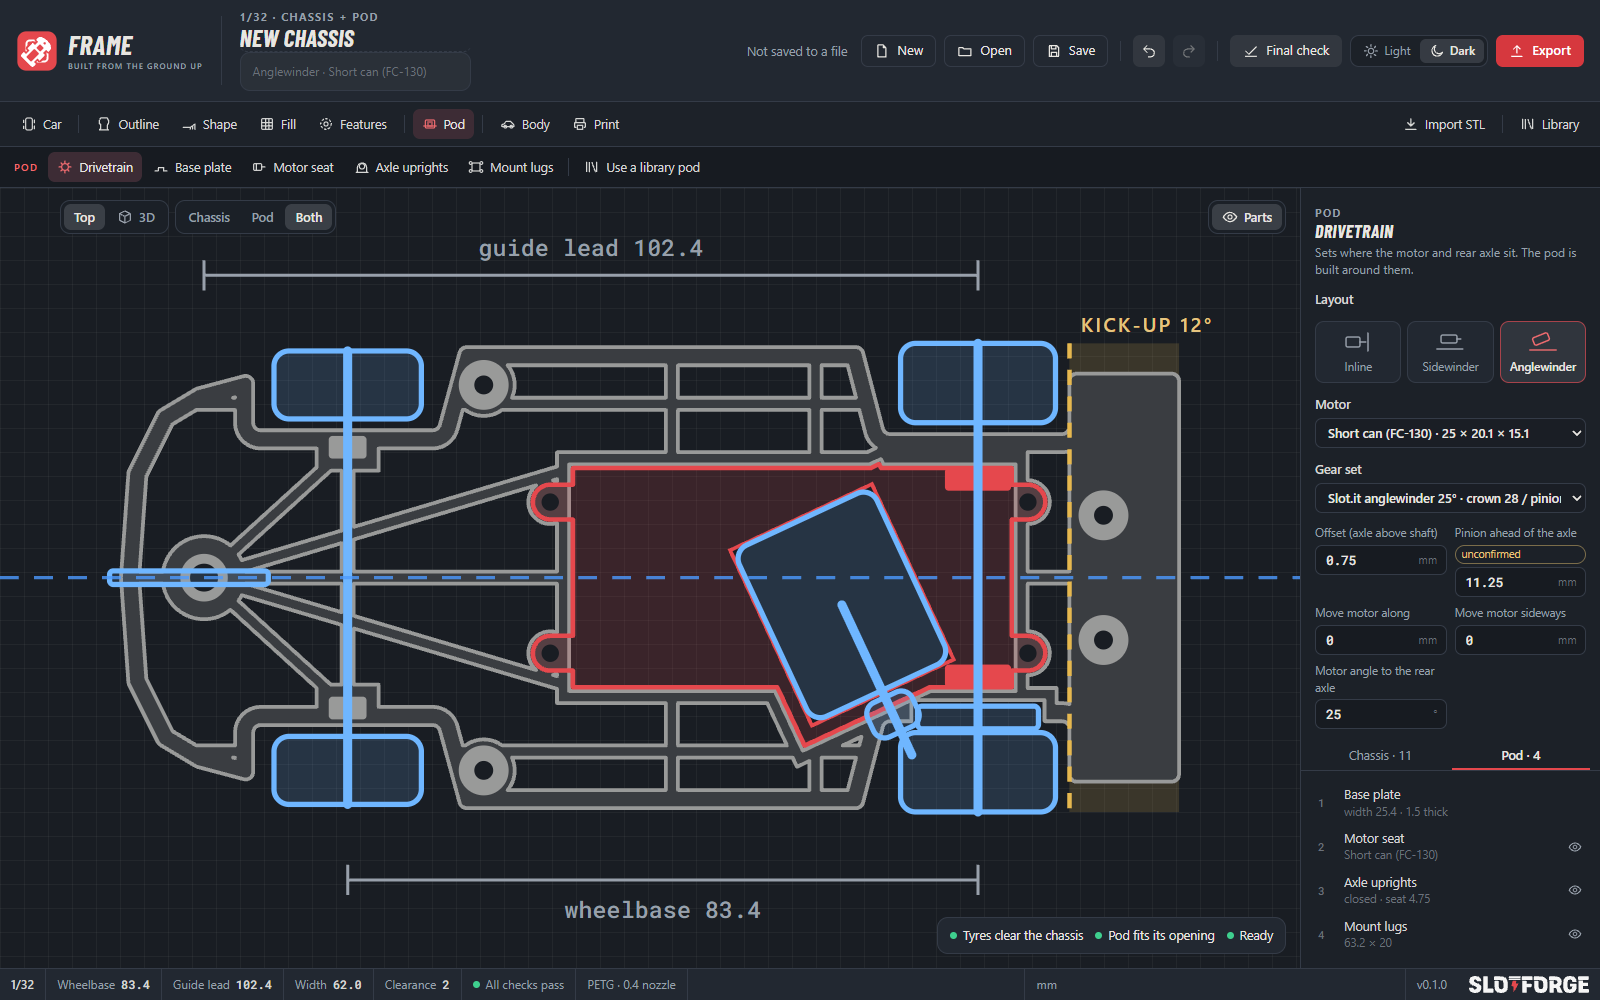
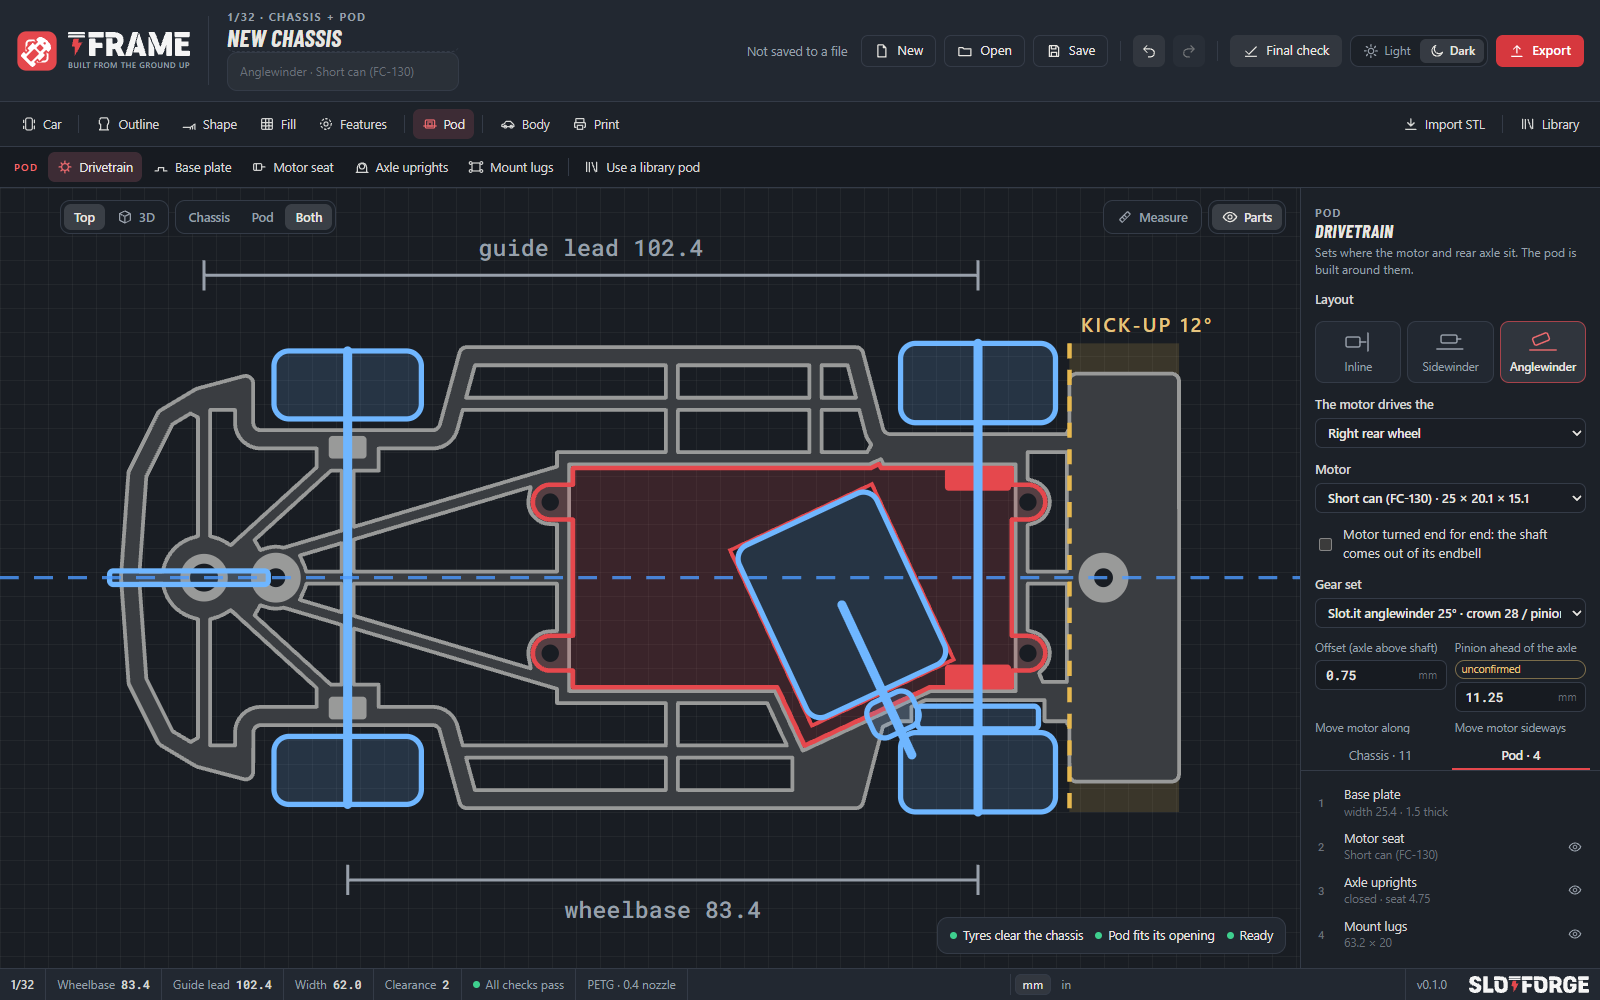
Trace inside the body sets the body back down; README brought up to date
A body that stood on the plate kept that height when the outline was traced
inside the body again. The README covers the newer tools and has new pictures.

diff --git a/src/main.js b/src/main.js
@@ -1205,6 +1205,8 @@ const ACTIONS = {
       if (state.design !== design) return; // another design was opened meanwhile
       applyOutline(design, out.points);
       // Under the body, the body stands on the plate; inside it, the body stays where it was put.
+      // A body that stood on the plate comes back down over the chassis when it is traced inside again.
+      if (!under && design.body.onPlate) design.body.lift = rideClearance(design);
       design.body.onPlate = under;
       // A body that stands on the plate needs it flat: a kicked-up nose or tail would rise into the body.
       const kicks = under ? ['kickup', 'kickfront'].map((type) => find(design.chassis, type)).filter((f) => on(f)) : [];

diff --git a/README.md b/README.md
@@ -8,7 +8,7 @@
 
 **Built from the ground up: a printable chassis and motor pod for your slotcar.**
 
-SlotForge Frame designs a 3D-printable slotcar chassis around the parts you race with: your wheels, guide, motor, gears and bearings. Draw the outline, or trace it from the body. Choose a closed plate or a light rail frame, shape a raised rear with strakes, and place the guide holder, the front axle brackets and the body mounts wherever you want them.
+SlotForge Frame designs a 3D-printable slotcar chassis around the parts you race with: your wheels, guide, motor, gears and bearings. Draw the outline, or trace it from the body. Choose a closed plate or a light rail frame, shape a raised rear with strakes, and place the guide holder, the front axle brackets, the body mounts, magnets and wire guides wherever you want them.
 
 The motor pod is designed with it, for inline, sidewinder and anglewinder motors, with bearing holders that are sized for your printer. A live preview shows the axles, wheels, motor and gears in place, and a final check goes through what matters before you print.
 
@@ -39,7 +39,7 @@ Visit each app's repository for its features, downloads and getting-started guid
 
 | Draw the outline | From body | Rail frame |
 | :---: | :---: | :---: |
-| [![The outline tool: one side of the chassis as points in the top view](docs/screenshots/outline.png)](docs/screenshots/outline.png) | [![An outline traced from a body, drawn in at the four wheels](docs/screenshots/from-body.png)](docs/screenshots/from-body.png) | [![The Fill tool with a rail frame, cross rails and pads](docs/screenshots/rail-frame.png)](docs/screenshots/rail-frame.png) |
+| [![The outline tool: one side of the chassis as points in the top view](docs/screenshots/outline.png)](docs/screenshots/outline.png) | [![An outline traced from a body, open at the four wheel arches](docs/screenshots/from-body.png)](docs/screenshots/from-body.png) | [![The Fill tool with a rail frame, cross rails and pads](docs/screenshots/rail-frame.png)](docs/screenshots/rail-frame.png) |
 | You shape one side; the other side mirrors it. | Trace the body from Anvil: sides, bumpers and wheel arches. | A closed plate, a rail frame or a lattice. |
 
 | Drivetrain | Final check | Calibration coupon |
@@ -67,55 +67,59 @@ Frame works along eight menus, roughly in the order you build a car: **Car, Outl
 
 ### Draw the outline
 
-- **Draw:** shape one side as points in the top view; the other side mirrors it. Drag the points or type them in. Round the corners and bevel the top or bottom edge.
-- **From body:** load the body you made in SlotForge Anvil and trace its underside. The outline follows the sides and both bumpers at a gap you choose, and is drawn in at the wheel arches so the tyres run free. The result is an outline you go on shaping by hand.
+- **Draw:** shape one side as points in the top view; the other side mirrors it. Drag the points or type them in. Mark a point as curved and the outline bends past it; round the corners and bevel the top or bottom edge.
+- **From body:** load the body you made in SlotForge Anvil and trace it. The chassis goes inside the body, a gap from its walls, sills and bumpers, or under it, with the body standing on the plate and the plate reaching out by an amount you set. The trace follows the body's lower edge, not a bumper or exhaust that sticks out, and leaves the wheel arches open. The result is an outline you go on shaping by hand.
 - **Plate thickness** and every other size in millimetres.
 
 ### Shape it
 
 - **Kick-up:** tilt the rear upward behind a fold line, over the full width, only the centre or only the sides, with strakes underneath like a diffuser. A front kick-up does the same at the nose.
 - **Side profile:** let the plate follow a height line along the car, for a stepped or rising floor.
-- **Ribs and strakes, edge walls, tunnels, upright panels, levels and pockets:** stiffen the plate and shape it, each placed and sized freely and mirrored if you want.
+- **Ribs and strakes, edge walls, tunnels, upright panels, levels and pockets:** stiffen the plate and shape it, each placed and sized freely and mirrored if you want. Ribs and walls can have a rounded root where they meet the plate.
 - **Split part:** print a long chassis as two parts that key into each other.
 
 ### Fill: closed, rail frame or lattice
 
 - **Closed:** a full plate.
-- **Rail frame:** an outer rail with cross rails and lengthwise rails, pads under every feature, and a spine if you want one. Frame proposes where the cross rails go; move, add or remove them.
+- **Rail frame:** an outer rail with cross rails and lengthwise rails, pads under every feature, a spine, struts in the nose, a rail under the front axle and a closed plate behind the rear wheels. Frame proposes where the cross rails go; move, add or remove them. The chassis always runs all the way round the motor pod.
 - **Lattice:** an open mesh with the cell size you set.
-- **Rails and windows:** draw extra rails of your own, or cut windows out of a closed plate.
+- **Rails, windows and cut-outs:** draw extra rails of your own, cut windows out of a closed plate, or cut any closed shape through the plate or sink it in.
 
 ### Guide, front axle and mounts
 
 - **Guide holder:** for the common guides, or your own sizes, anywhere ahead of the front axle.
-- **Front axle brackets:** their spread, height and wall, with an axle slot that fits your printer.
-- **Body mounts:** as many spots as you need, shared with SlotForge Anvil.
+- **Front axle brackets:** their spread, height and wall, with an axle slot that fits your printer. Give the axle travel up and down, grub screws from below and above, or a stub axle for each wheel.
+- **Body mounts and supports:** as many mount spots as you need, shared with SlotForge Anvil, and tabs that reach out from the edge of the plate for the body to rest on.
+- **Magnet and ballast holders, wire guides and a chip mount:** walled pockets for magnets or weights, posts that hold the lead wires, and a tray for a digital chip, each where you put it.
 - **Pod mounts and pod opening:** the default four-screw pattern is 63.2 × 20 mm; change it, or let it follow an imported pod.
 
 ### The motor pod
 
-- **Inline, sidewinder and anglewinder,** for short-can, long-can and slim-can motors. The anglewinder's angle to the rear axle is yours to set, and the app says when it differs from what the gears are cut for.
-- **Gears:** pick a crown or spur gear set; the motor is placed so that the gears mesh.
+- **Inline, sidewinder and anglewinder,** for short-can, long-can and slim-can motors, driving the right or the left rear wheel. The anglewinder's angle to the rear axle is yours to set, and the app says when it differs from what the gears are cut for. A motor that drives from its endbell can be turned end for end.
+- **Gears:** pick a crown or spur gear set; the motor is placed so that the gears mesh. A gear set says how its gear is built (disc, boss and which way it points), and the chassis is cut free for it.
+- **In its opening or on top:** the pod drops into its opening, or sits on top of the chassis rails as on the makers' chassis, with the motor and axle dropped through its floor. Move it sideways, and give it float on its screws.
 - **Bearing holders:** closed, snap-in or clamp, with a buttress on the motor side, a brace between them and room to oil the bearing.
 - **Motor seat, base plate and mount lugs,** each with its own sizes.
 - **Live preview:** axles, wheels, tyres, motor, pinion and gear are drawn in place in the top view and in 3D.
 
 ### Bought and shared parts
 
-- **Import an STL** of a pod or a chassis you bought or downloaded. Frame measures it, finds its screw holes, and fits the chassis round an imported pod.
+- **Import an STL** of a pod or a chassis you bought or downloaded. Frame measures it, finds its screw holes, and fits the chassis round an imported pod. An imported chassis can be made editable: its shape becomes your outline.
 - **Library:** every chassis and pod you make or import, kept in one file on your computer, with motors, gear sets, bearings, guides, printers, rule sets and car presets beside them. Add components of your own.
 - **Share:** export a part, or the whole library, as a `.framelib` file for other SlotForge Frame users, and open theirs.
 
 ### Work with SlotForge Anvil
 
 - **Export for Anvil:** an `.anvilchassis` file with the chassis, the pod and the body-mount spots. Anvil shows them inside the body and builds the posts on those spots.
-- **Body from Anvil:** load the body's STL. It shows as a ghost over the chassis, and Frame says whether the chassis and the wheels stay inside it.
+- **Body from Anvil:** load the body's STL and turn it the right way up. It shows over the chassis as a ghost or solid. Frame finds its wheel arches and fits the wheelbase and the axles to them, says whether the chassis and the wheels stay inside it, and checks in 3D that nothing of the chassis runs into the body.
 
 ### Check, then print
 
 - **Printer and material:** nozzle, minimum wall and the fixes for holes that print undersize.
 - **Calibration coupon:** a small test piece with every hole size your design uses. Print it once per printer and material, try your parts in it, and tell the app which holes fitted.
 - **Final check:** one list of what matters before printing (one solid piece, tyres clear of the chassis, the pod in its opening, gear mesh, wall thickness, your rules), each row leading to the tool that fixes it. Sizes that no maker publishes are marked **unconfirmed**, so you know what to measure.
+- **Weight and balance:** the weight of the printed parts with the weights you add, and where the centre of gravity lies.
+- **Millimetres or inches,** and a measuring tool in the top view.
 - **Export STL:** the chassis and the pod, laid flat for printing, and split parts as their own files.
 - **Projects:** your design is kept on this computer and opens again next time. **Save** writes a `.frame` file with everything in it, imported parts included.
 
